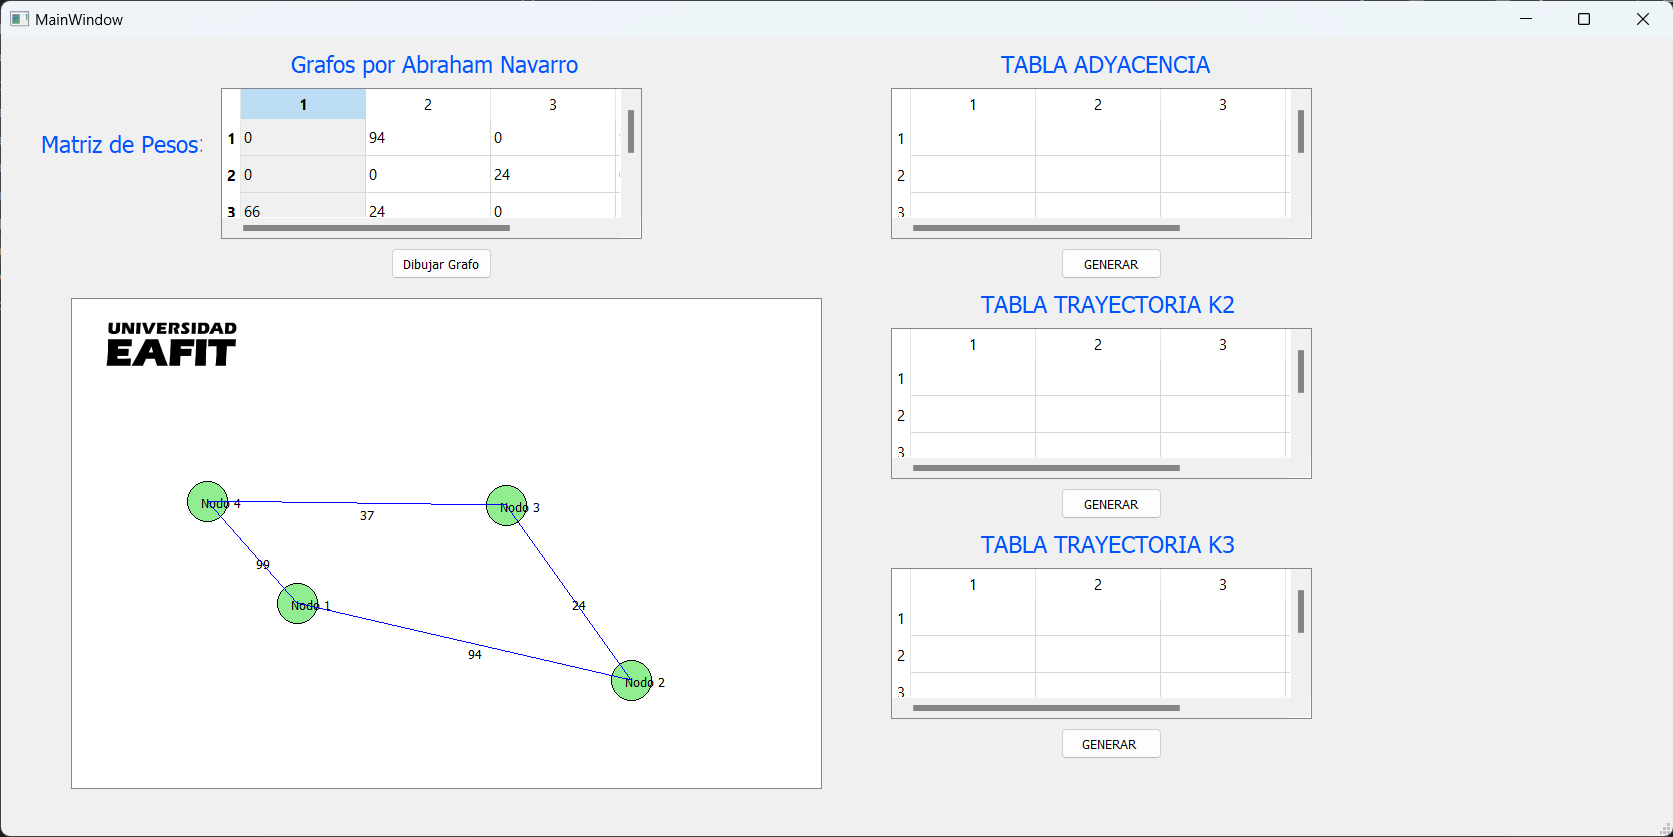
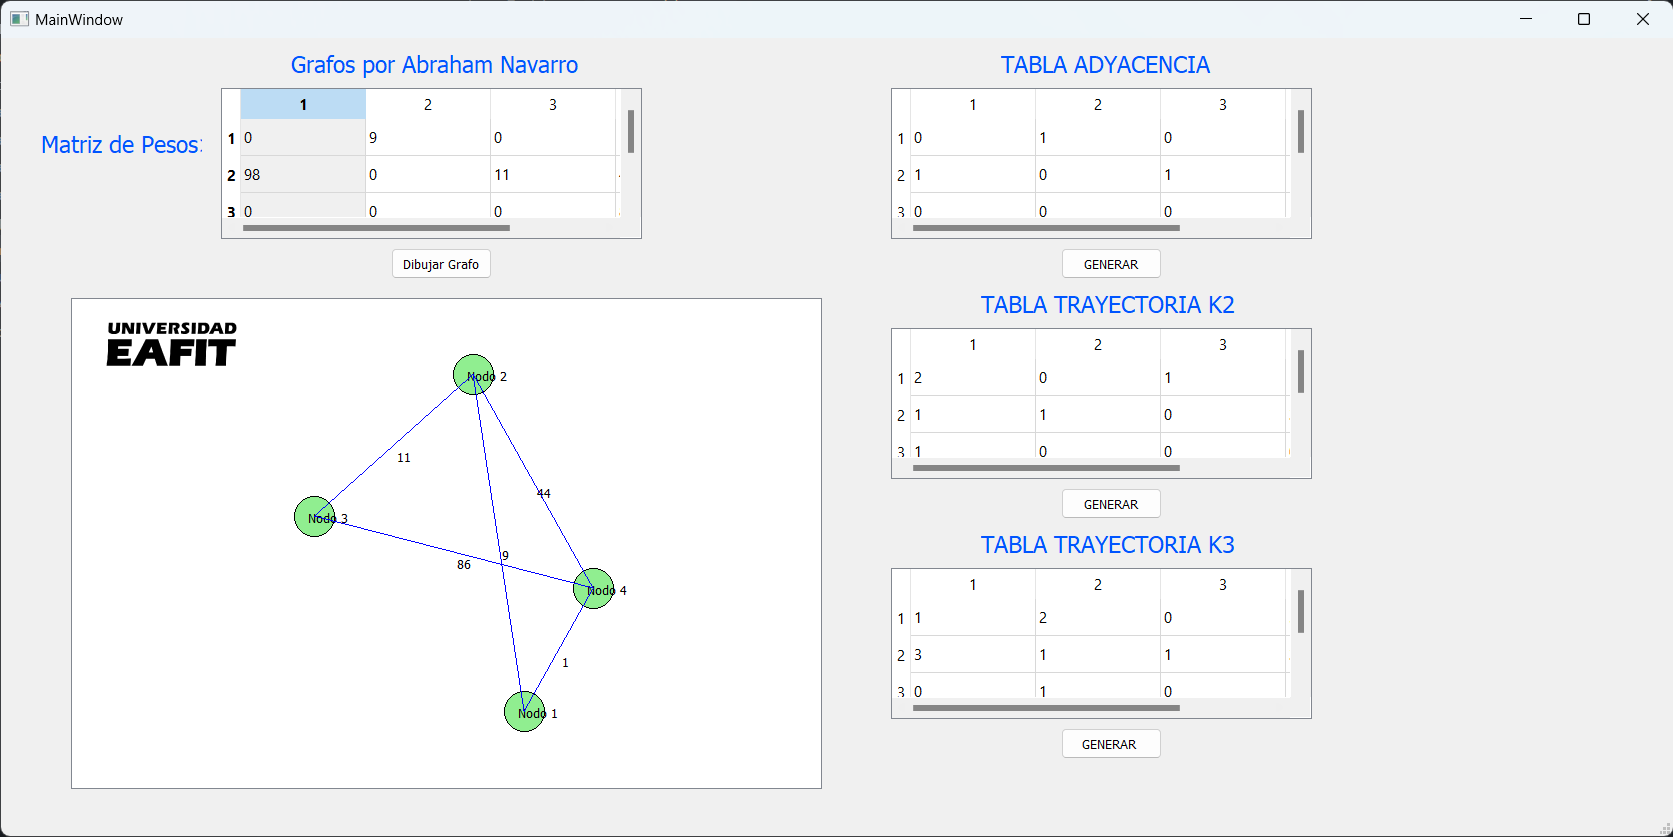
VFinal

diff --git a/main.py b/main.py
@@ -21,11 +21,9 @@ class Nodo(QGraphicsEllipseItem):
         self.aristas = []  # Lista de aristas conectadas a este nodo
 
     def agregar_arista(self, arista):
-        """Agrega una arista a la lista de aristas del nodo."""
         self.aristas.append(arista)
 
     def itemChange(self, change, value):
-        """Actualiza las posiciones de las aristas cuando el nodo se mueve."""
         if change == QGraphicsItem.ItemPositionChange:
             for arista in self.aristas:
                 arista.actualizar_posiciones()  # Actualiza la posición de las aristas conectadas
@@ -51,7 +49,6 @@ class Arista(QGraphicsLineItem):
         self.setPen(QtGui.QPen(QtGui.QColor(color)))  # Color de la línea
 
     def actualizar_posiciones(self):
-        """Actualiza las posiciones de la línea de la arista según las posiciones de los nodos."""
         x1, y1 = self.nodo1.scenePos().x(), self.nodo1.scenePos().y()
         x2, y2 = self.nodo2.scenePos().x(), self.nodo2.scenePos().y()
 
@@ -59,7 +56,6 @@ class Arista(QGraphicsLineItem):
         self.text_item.setPos((x1 + x2) / 2, (y1 + y2) / 2)  # Posiciona el texto en el centro de la línea
 
     def mousePressEvent(self, event):
-        """Cambia el color de la arista y los nodos cuando se hace clic sobre la arista."""
         self.setPen(QtGui.QPen(QtCore.Qt.red, 3))  # Cambia el color de la línea a rojo
         self.nodo1.setPen(QtGui.QPen(QtCore.Qt.red, 3))  # Cambia el color del nodo 1 a rojo
         self.nodo2.setPen(QtGui.QPen(QtCore.Qt.red, 3))  # Cambia el color del nodo 2 a rojo
@@ -87,7 +83,6 @@ class GrafoApp(QtWidgets.QMainWindow):
         self.aristas = []  # Lista de aristas en el grafo
 
     def dibujar_grafo(self):
-        """Dibuja el grafo basado en la matriz de adyacencia proporcionada en la interfaz."""
         try:
             self.scene.clear()  # Limpia la escena
             self.nodos.clear()  # Limpia la lista de nodos
@@ -99,7 +94,6 @@ class GrafoApp(QtWidgets.QMainWindow):
             print(f"Error al dibujar el grafo: {e}")
 
     def obtener_matriz(self):
-        """Obtiene la matriz de adyacencia desde la interfaz gráfica."""
         try:
             filas = self.ui.tableWidget.rowCount()  # Número de filas
             columnas = self.ui.tableWidget.columnCount()  # Número de columnas
@@ -117,7 +111,6 @@ class GrafoApp(QtWidgets.QMainWindow):
             return []
 
     def dibujar_nodos_y_aristas(self, matriz):
-        """Dibuja los nodos y las aristas en la escena según la matriz de adyacencia."""
         try:
             num_nodos = len(matriz)  # Número de nodos
             radius = 20  # Radio de los nodos
@@ -149,7 +142,6 @@ class GrafoApp(QtWidgets.QMainWindow):
             print(f"Error al dibujar nodos y aristas: {e}")
 
     def llenar_matriz_aleatoria(self, index):
-        """Llena la matriz de adyacencia con valores aleatorios, asegurando que todos los nodos tengan al menos una conexión."""
         try:
             filas = self.ui.tableWidget.rowCount()
             columnas = self.ui.tableWidget.columnCount()
@@ -185,7 +177,7 @@ class GrafoApp(QtWidgets.QMainWindow):
     def generar_matriz_adyacencia(self):
         matriz_pesos = self.obtener_matriz()
         matriz_adyacencia = [[1 if valor > 0 else 0 for valor in fila] for fila in matriz_pesos]  # Transforma los pesos en 1 o 0
-        self.mostrar_en_tabla(self.ui.tableAdyasencia, matriz_adyacencia)  # Muestra la matriz de adyacencia
+        self.mostrar_en_tabla(self.ui.tablaAdyasencia, matriz_adyacencia)  # Muestra la matriz de adyacencia
 
     def calcular_potencia_matriz(self, k):
         matriz_adyacencia = np.array(self.obtener_matriz_adyacencia())
